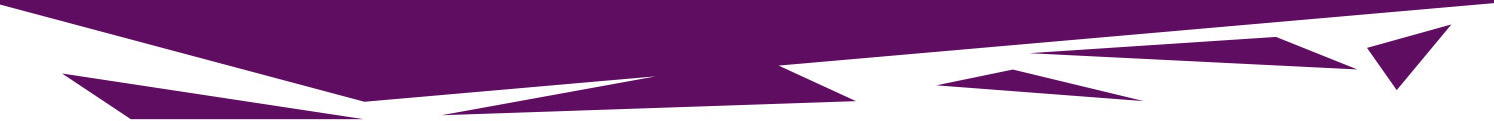
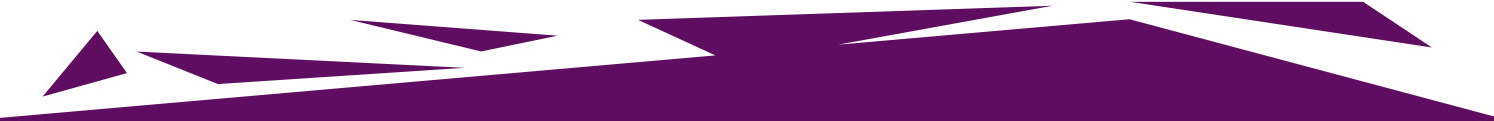
Updates to colors and text

diff --git a/src/app/a5-chat-window/a5-chat-window.component.html b/src/app/a5-chat-window/a5-chat-window.component.html
@@ -15,26 +15,30 @@
     </div>
   </div>
 
-  <div id="brand-section" *ngIf="showBrandingLine" [ngStyle]="{'background-image': brandSectionBGImg}">
+  <div
+    id="brand-section"
+    *ngIf="showBrandingLine"
+    [ngStyle]="{ 'background-image': brandSectionBGImg }"
+  >
     <div class="brand-welcome-line">
-      <div class="chat-icon">
+      <!-- <div class="chat-icon">
         <fa-icon *ngIf="notMobileScreen" [icon]="faComment"></fa-icon>
       </div>
       <p>{{ brandLine }}</p>
+    </div> -->
     </div>
-  </div>
 
-  <div id="message-list">
-    <div *ngFor="let message of messages">
-      <a5-chat-bubble
-        [messageContent]="message.message"
-        [userMessage]="message.userMessage"
-        [name]="message.name"
-      ></a5-chat-bubble>
+    <div id="message-list">
+      <div *ngFor="let message of messages">
+        <a5-chat-bubble
+          [messageContent]="message.message"
+          [userMessage]="message.userMessage"
+          [name]="message.name"
+        ></a5-chat-bubble>
+      </div>
     </div>
-  </div>
-  <div id="dialog-options">
-    <!--
+    <div id="dialog-options">
+      <!--
       <div class="main-menu-button">
         <div class="main-menu-btn-title">
           <p>Anything else?</p>
@@ -42,77 +46,74 @@
         <button value="main-menu-button" (click)="sendMail()">Menu</button>
       </div>
     -->
-    <div
-      class="bot-menu-options"
-      [@bounceMenu]="bounceMenu"
-      *ngIf="showBotOptions"
-    >
-      <div class="bot-option-img" *ngIf="botOptionsImg">
-        <img
-          [src]="botOptionImgSource"
-          alt=""
-          srcset=""
-        />
-      </div>
-      <div class="bot-option-title" *ngIf="!botOptionsImg">
-        <p>{{ botOptionsTitle }}</p>
-      </div>
-      <div class="option-buttons-container">
-        <button
-          *ngFor="let option of botMenuOptions"
-          value="{{option.value}}"
-          (click)="chooseBotOption($event)"
-        >
-          {{ option.text }}
-        </button>
-        <button
-          *ngIf="multipleCards"
-          class="more-options-btn"
-          (click)="
-            setBotOptionPagination(currentResponseCardPosition, responseCards)
-          "
-        >
-          <span> More </span>
-          <fa-icon [icon]="faArrowRight"></fa-icon>
-        </button>
+      <div
+        class="bot-menu-options"
+        [@bounceMenu]="bounceMenu"
+        *ngIf="showBotOptions"
+      >
+        <div class="bot-option-img" *ngIf="botOptionsImg">
+          <img [src]="botOptionImgSource" alt="" srcset="" />
+        </div>
+        <div class="bot-option-title" *ngIf="!botOptionsImg">
+          <p>{{ botOptionsTitle }}</p>
+        </div>
+        <div class="option-buttons-container">
+          <button
+            *ngFor="let option of botMenuOptions"
+            value="{{ option.value }}"
+            (click)="chooseBotOption($event)"
+          >
+            {{ option.text }}
+          </button>
+          <button
+            *ngIf="multipleCards"
+            class="more-options-btn"
+            (click)="
+              setBotOptionPagination(currentResponseCardPosition, responseCards)
+            "
+          >
+            <span> More </span>
+            <fa-icon [icon]="faArrowRight"></fa-icon>
+          </button>
+        </div>
       </div>
     </div>
-  </div>
-  <div id="message-submission">
-    <div>
-      <div
-        #botMessageInput
-        aria-labelledby="Jot something down"
-        role="textbox"
-        contenteditable="true"
-        aria-multiline="true"
-        id="user-message-input"
-        (keyup.enter)="submitMessageToBot(userMessageInput)"
-        data-ph="Type your message here"
-      ></div>
-      <!--
+    <div id="message-submission">
+      <div>
+        <div
+          #botMessageInput
+          aria-labelledby="Jot something down"
+          role="textbox"
+          contenteditable="true"
+          aria-multiline="true"
+          id="user-message-input"
+          (keyup.enter)="submitMessageToBot(userMessageInput)"
+          data-ph="Type your message here"
+        ></div>
+        <!--
         <input (keyup.enter)="submitMessageToBot(userMessageInput)" [(ngModel)]="userMessageInput" type="text" name="" id="user-message-input"
         placeholder="Type here..." autocomplete="off">
       -->
-      <!--
+        <!--
         <fa-icon [ngClass]="{'recording': isRecording}" [icon]="faMicrophone" (click)="speakToBot()"></fa-icon>
       -->
-      <!--
+        <!--
         <emoji-mart [showPreview]="false" [exclude]="emojiExcludedCategories" *ngIf="emojiPickerShown" (emojiSelect)="selectedEmoji($event)"
           [custom]="customEmojis" [style]="{ position: 'absolute', bottom: '47px', right: '20px' }"></emoji-mart>
         <button (click)="toggleEmojiPicker()">
           <fa-icon [icon]="faGrin"></fa-icon>
         </button>
       -->
-      <button type="submit" (click)="submitMessageToBot(userMessageInput)">
-        Send
-      </button>
+        <button type="submit" (click)="submitMessageToBot(userMessageInput)">
+          Send
+        </button>
+      </div>
     </div>
   </div>
+  <a5-alivepay-modal
+    *ngIf="showAlivePayModal"
+    [showModal]="showAlivePayModal"
+    (modalHidden)="modalState($event)"
+    [movieTitle]="movieTitle"
+  ></a5-alivepay-modal>
 </div>
-<a5-alivepay-modal
-  *ngIf="showAlivePayModal"
-  [showModal]="showAlivePayModal"
-  (modalHidden)="modalState($event)"
-  [movieTitle]="movieTitle"
-></a5-alivepay-modal>

diff --git a/src/app/a5-chat-window/a5-chat-window.component.css b/src/app/a5-chat-window/a5-chat-window.component.css
@@ -99,11 +99,11 @@
   position: relative;
   height: 45px;
   min-height: 45px;
-  box-shadow: 0px 6px 4px -6px rgba(0, 0, 0, 0.26);
+  /* box-shadow: 0px 6px 4px -6px rgba(0, 0, 0, 0.26); */
   -webkit-box-pack: center;
   -ms-flex-pack: center;
   justify-content: center;
-  background-color: #600e62;
+  background-color: #1cc9ad;
 }
 
 .logo-container {
@@ -179,15 +179,15 @@
 #message-list > *:first-child {
   margin-bottom: auto;
 }
-#message-list:before {
+#brand-section:after {
   content: "";
-  background: url("../../assets/img/purp-shatter.jpg");
+  background: url("/pacnet/assets/img/teal-shatter.jpg");
   height: 10px;
   width: 100%;
   position: absolute;
-  top: 0;
+  bottom: -10px;
   left: 0;
-  background-position: 17% 84%;
+  background-position: -14% 70%;
 }
 .bot-menu-options {
   display: -webkit-box;
@@ -208,18 +208,18 @@
   -webkit-overflow-scrolling: touch;
   overflow-x: auto;
   position: relative;
-  background-color: #1cc9ad;
+  background-color: #600e62;
   color: #fff;
 }
 .bot-menu-options:before {
   content: "";
-  background: url("../../assets/img/teal-shatter.jpg");
+  background: url("/pacnet/assets/img/purp-shatter.jpg");
   height: 10px;
   width: 100%;
   position: absolute;
   top: 0;
   left: 0;
-  background-position: 25% 36%;
+  background-position: 32% 16%;
 }
 #dialog-options button {
   display: block;

diff --git a/src/index.html b/src/index.html
@@ -3,19 +3,19 @@
   <head>
     <meta charset="utf-8" />
     <title>NodeCubBot</title>
-    <base href="/" />
+    <base href="/pacnet/" />
     <meta
       name="viewport"
       content="width=device-width, initial-scale=1, user-scalable=no"
     />
-    <link rel="icon" type="image/x-icon" href="favicon.ico" />
-    <link rel="stylesheet" href="/assets/css/styles.css" />
+    <link rel="icon" type="image/x-icon" href="/favicon.ico" />
+    <link rel="stylesheet" href="/pacnet/assets/css/styles.css" />
     <link
       href="https://fonts.googleapis.com/css?family=Nunito:200,300,400,600,700"
       rel="stylesheet"
     />
-    <link rel="stylesheet" href="/assets/css/animate.min.css" />
-    <link rel="stylesheet" href="/assets/css/emoji-mart.css" />
+    <link rel="stylesheet" href="/pacnet/assets/css/animate.min.css" />
+    <link rel="stylesheet" href="/pacnet/assets/css/emoji-mart.css" />
     <script>
       var global = global || window;
       document.addEventListener("gesturestart", function(e) {

diff --git a/src/app/a5-chat-window/a5-chat-window.component.ts b/src/app/a5-chat-window/a5-chat-window.component.ts
@@ -150,7 +150,7 @@ export class A5ChatWindowComponent implements OnInit {
   ];
 
   // Customizing
-  logoImg = "../../assets/img/pacnet-logo.png";
+  logoImg = "/pacnet/assets/img/pacnet-logo.png";
   brandLine = "Welcome Message!";
   showBrandingLine = true;
   showHideButton = false;
